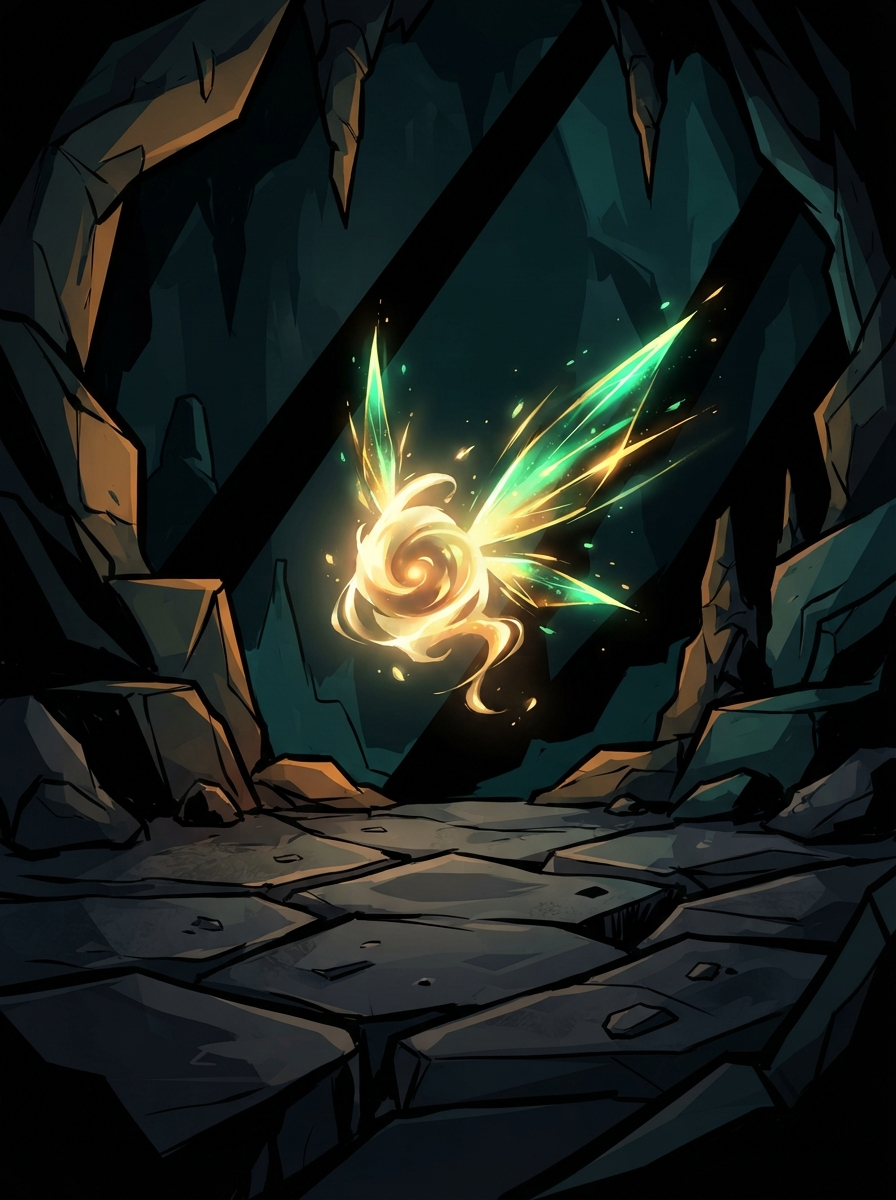
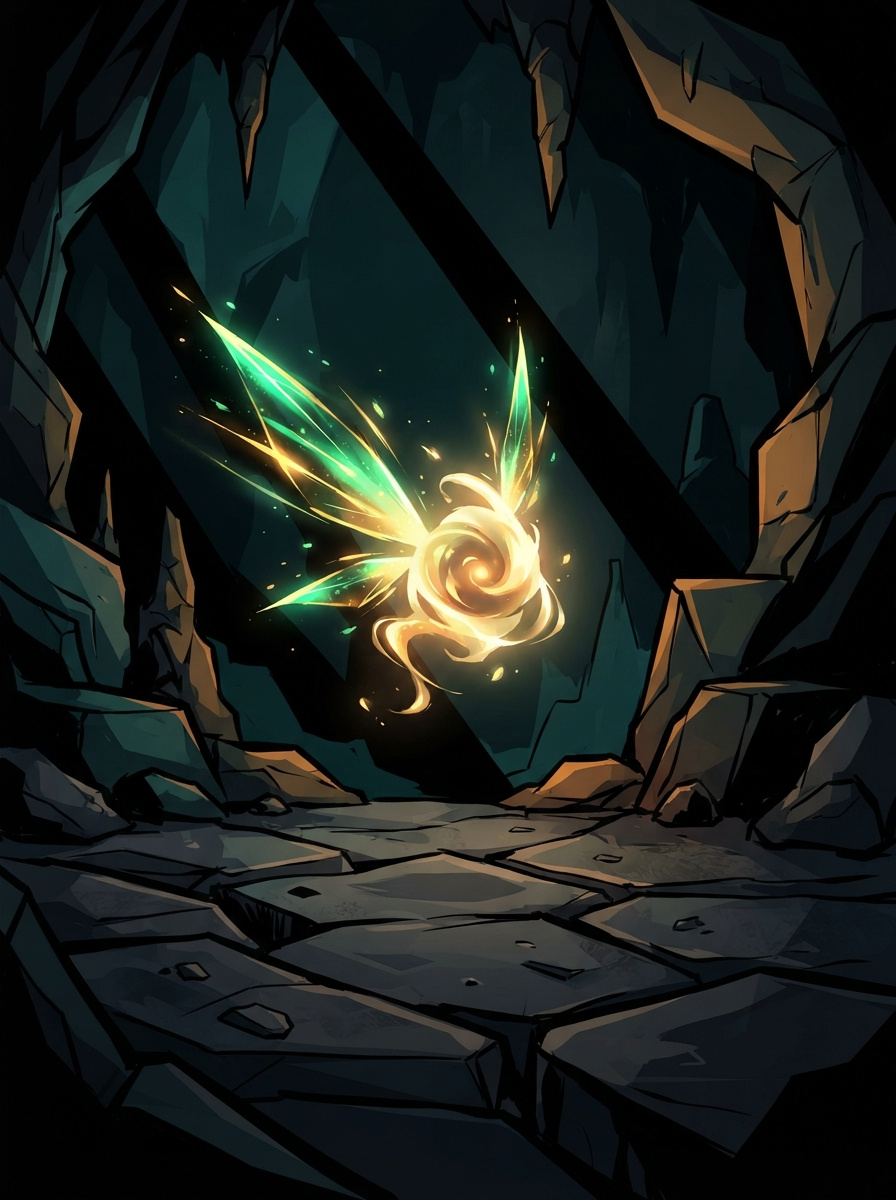
feat: dampen companion offers once owned, refresh pixie art, fix inspector eyebrow
Offer companion cards about half as often once the deck has one,
keeping the early companionless boost unchanged with a safe fallback
when filtering empties the pool. Refresh Pixie card art with
regenerated optimized output. Shrink the labyrinth inspector eyebrow
so it sits below the title while keeping uppercase styling.

User-Facing: yes

diff --git a/tests/lib/game-data/reward-selection.test.ts b/tests/lib/game-data/reward-selection.test.ts
@@ -135,7 +135,7 @@ describe("selectRewardCards", () => {
       seed: 42,
       count: 3,
       hasCompanion: true,
-      ids: ["wolf", "plain", "strike-2"],
+      ids: ["fox", "strike-0", "strike-3"],
       nextRandom: 0.003842951962724328,
     },
     {
@@ -273,7 +273,7 @@ describe("companionless boost", () => {
     expect(deckHasCompanionCard([card({ id: "stab" }), companionCard("wolf-companion")])).toBe(true);
   });
 
-  it("offers companions more often until the deck has one, then returns to normal", () => {
+  it("offers companions more often until the deck has one, then dampens them", () => {
     const pool: BattleCard[] = [
       companionCard("wolf-companion"),
       ...Array.from({ length: 6 }, (_, index) => physicalCard(`slash-${index}`)),
@@ -306,6 +306,47 @@ describe("companionless boost", () => {
     ];
     for (let i = 0; i < 200; i += 1) {
       const picked = selectRewardCards([], pool, 3, [], mulberry32(9000 + i));
+      expect(picked).toHaveLength(3);
+      expect(new Set(picked.map((entry) => entry.id)).size).toBe(3);
+    }
+  });
+});
+
+describe("owned companion dampening", () => {
+  it("offers companions about half as often once the deck has one", () => {
+    const pool: BattleCard[] = [
+      companionCard("wolf-companion"),
+      ...Array.from({ length: 12 }, (_, index) => physicalCard(`slash-${index}`)),
+    ];
+    const deck = [physicalCard("owned-stab"), companionCard("owned-wolf")];
+
+    function hitRate(trials: number): number {
+      let hits = 0;
+      for (let i = 0; i < trials; i += 1) {
+        const picked = selectRewardCards(deck, pool, 3, [], mulberry32(7000 + i));
+        if (picked.some((entry) => entry.id === "wolf-companion")) hits += 1;
+      }
+      return hits / trials;
+    }
+
+    const uniformBaseline = 3 / 13;
+    const rate = hitRate(3000);
+    expect(rate).toBeLessThan(uniformBaseline * 0.75);
+    expect(rate).toBeGreaterThan(uniformBaseline * 0.25);
+  });
+
+  it("never offers the same card twice with an owned companion", () => {
+    const pool: BattleCard[] = [
+      companionCard("wolf-companion"),
+      companionCard("fox-companion"),
+      companionCard("bear-companion"),
+      card({ id: "a" }),
+      card({ id: "b" }),
+      card({ id: "c" }),
+    ];
+    const deck = [companionCard("owned-wolf")];
+    for (let i = 0; i < 200; i += 1) {
+      const picked = selectRewardCards(deck, pool, 3, [], mulberry32(11000 + i));
       expect(picked).toHaveLength(3);
       expect(new Set(picked.map((entry) => entry.id)).size).toBe(3);
     }

diff --git a/src/lib/game-data/reward-selection.ts b/src/lib/game-data/reward-selection.ts
@@ -41,6 +41,12 @@ function buildAffinityPool(
     .map((s) => s.card);
 }
 
+function dampenCompanionCandidates(candidates: BattleCard[], rng: () => number): BattleCard[] {
+  return candidates.filter(
+    (card) => !isCompanionCard(card) || rng() < REWARD_SELECTION_CONFIG.companionOwnedKeepFraction,
+  );
+}
+
 function pickOneCard(
   affinityPool: BattleCard[],
   randomPool: BattleCard[],
@@ -64,17 +70,22 @@ export function selectRewardCards(
   seedKeywords: KeywordId[] = [],
 ): BattleCard[] {
   const excludedIds = new Set(exclude.map((card) => card.id));
-  const candidates = allCards.filter((card) => !excludedIds.has(card.id));
-  const boostCompanions = !deckHasCompanionCard(deck);
+  const pool = allCards.filter((card) => !excludedIds.has(card.id));
+  const hasCompanion = deckHasCompanionCard(deck);
+  const candidates = hasCompanion ? dampenCompanionCandidates(pool, rng) : pool;
+  const effectiveCandidates = candidates.length > 0 ? candidates : pool;
+  const boostCompanions = !hasCompanion;
   const companionCopies = boostCompanions ? REWARD_SELECTION_CONFIG.companionlessRandomWeight : 1;
   const randomPool = shuffle(
-    companionCopies > 1 ? [...candidates, ...candidates.filter(isCompanionCard)] : candidates,
+    companionCopies > 1
+      ? [...effectiveCandidates, ...effectiveCandidates.filter(isCompanionCard)]
+      : effectiveCandidates,
     rng,
   );
   const selected: BattleCard[] = [];
   const freq = buildKeywordFrequency(deck, seedKeywords);
   const affinityPool = buildAffinityPool(
-    candidates,
+    effectiveCandidates,
     deck,
     freq,
     count,

diff --git a/src/features/alchemy/run-loop/screens/labyrinth/labyrinth-node-inspector.tsx b/src/features/alchemy/run-loop/screens/labyrinth/labyrinth-node-inspector.tsx
@@ -33,7 +33,7 @@ export function LabyrinthNodeInspector({ node, map, onEnter, onDescend }: Props)
           <img src={enemy?.art ?? meta.art} alt="" className="block h-auto w-full" draggable={false} />
           <div className="absolute inset-x-0 bottom-0 bg-gradient-to-t from-black/95 via-black/70 to-transparent p-4 pt-12">
             {node.type === "entrance" || category !== title ? (
-              <p className="text-lg font-semibold tracking-widest text-stone-200 uppercase">
+              <p className="text-base font-semibold tracking-widest text-stone-200 uppercase">
                 {node.type === "entrance" ? `Floor ${node.floor}` : category}
               </p>
             ) : null}

diff --git a/src/lib/game-constants/run-rewards.ts b/src/lib/game-constants/run-rewards.ts
@@ -107,4 +107,5 @@ export const REWARD_SELECTION_CONFIG = {
   affinityPoolMultiplier: 2,
   companionlessScoreBonus: 2,
   companionlessRandomWeight: 2,
+  companionOwnedKeepFraction: 0.5,
 } as const;
